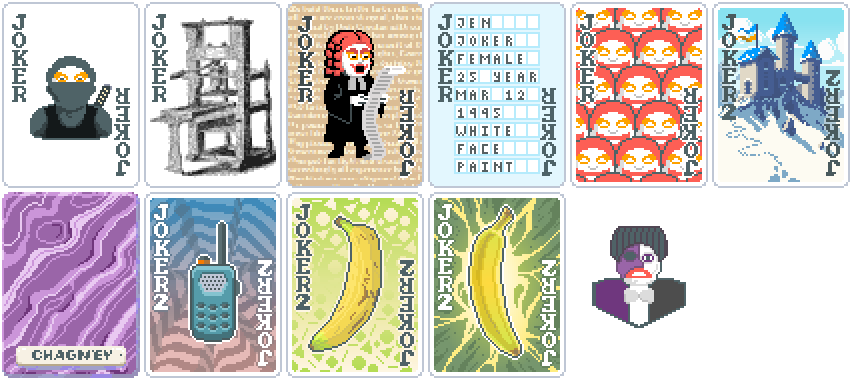
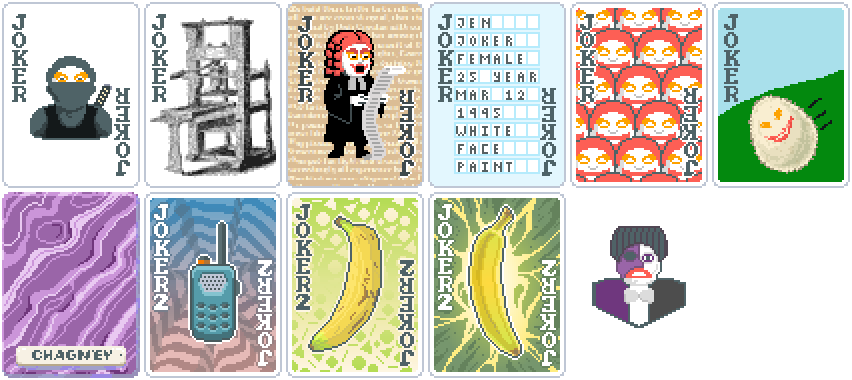
Added Rolling Stone Joker

Changed region(s): [[0.8239, 0.0, 1.0, 0.4921]]

diff --git a/CREDITS.md b/CREDITS.md
@@ -8,7 +8,8 @@ Ideas:
  - OmnipotentEntity: Ninja, Chimera
  - unknownusergd: Student Loan Debt
  - /u/yellow-hammer: Filibuster
+ - Dimoniosus: Rolling Stone
 
 Art:
- - OmnipotentEntity: Ninja, Template, Chimera, Census, Hivemind
+ - OmnipotentEntity: Ninja, Template, Chimera, Census, Hivemind, Rolling Stone
  - /u/yellow-hammer: Filibuster
